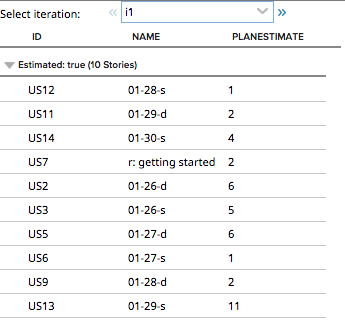
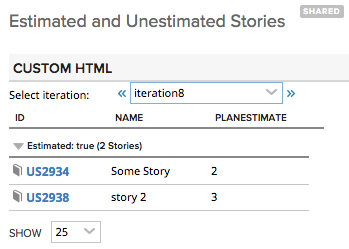
made FID clickable

Changed region(s): [[0.0, 0.0, 1.0, 0.9839]]

diff --git a/deploy/App-external.html b/deploy/App-external.html
@@ -7,7 +7,7 @@
 
     <script type="text/javascript">
         Rally.onReady(function () {
-                Ext.define("CustomApp",{extend:"Rally.app.TimeboxScopedApp",componentCls:"app",scopeType:"iteration",comboboxConfig:{fieldLabel:"Select iteration:",labelWidth:100,width:300},onScopeChange:function(){Ext.create("Rally.data.wsapi.Store",{model:"User Story",fetch:["FormattedID","Name","PlanEstimate"],limit:1/0,autoLoad:!0,filters:[this.getContext().getTimeboxScope().getQueryFilter()],sorters:[{property:"DragAndDropRank",direction:"DESC"}],listeners:{load:this._onStoriesLoaded,scope:this}})},_onStoriesLoaded:function(store,records){var myData=[];console.log(records.length);var estimated=!1;_.each(records,function(record){estimated=record.get("PlanEstimate")?!0:!1,console.log(estimated);var obj={isEstimated:estimated,Name:record.get("Name"),FormattedID:record.get("FormattedID"),PlanEstimate:record.get("PlanEstimate")};myData.push(obj)},this),this._makeGrid(myData)},_makeGrid:function(myData){this.down("#storyGrid")&&this.down("#storyGrid").destroy();var gridStore=Ext.create("Rally.data.custom.Store",{data:myData,limit:1/0,groupField:"isEstimated"});this.add({xtype:"rallygrid",itemId:"storyGrid",store:gridStore,features:[{ftype:"grouping",groupHeaderTpl:'Estimated: {name} ({rows.length} {[values.rows.length > 1 ? "Stories" : "Story"]})'}],columnCfgs:[{text:"ID",dataIndex:"FormattedID"},{text:"Name",dataIndex:"Name"},{text:"PlanEstimate",dataIndex:"PlanEstimate"}]})}});
+                Ext.define("CustomApp",{extend:"Rally.app.TimeboxScopedApp",componentCls:"app",scopeType:"iteration",comboboxConfig:{fieldLabel:"Select iteration:",labelWidth:100,width:300},onScopeChange:function(){Ext.create("Rally.data.wsapi.Store",{model:"User Story",fetch:["FormattedID","Name","PlanEstimate"],limit:1/0,autoLoad:!0,filters:[this.getContext().getTimeboxScope().getQueryFilter()],sorters:[{property:"DragAndDropRank",direction:"DESC"}],listeners:{load:this._onStoriesLoaded,scope:this}})},_onStoriesLoaded:function(store,records){var myData=[];console.log(records.length);var estimated=!1;_.each(records,function(record){estimated=record.get("PlanEstimate")?!0:!1,console.log(estimated);var obj=Ext.apply(record.getData(),{isEstimated:estimated});myData.push(obj)},this),this._makeGrid(myData)},_makeGrid:function(myData){this.down("#storyGrid")&&this.down("#storyGrid").destroy();var gridStore=Ext.create("Rally.data.custom.Store",{data:myData,limit:1/0,groupField:"isEstimated"});this.add({xtype:"rallygrid",itemId:"storyGrid",store:gridStore,showRowActionsColumn:!1,width:400,features:[{ftype:"grouping",groupHeaderTpl:'Estimated: {name} ({rows.length} {[values.rows.length > 1 ? "Stories" : "Story"]})'}],columnCfgs:[{xtype:"templatecolumn",text:"ID",dataIndex:"FormattedID",tpl:Ext.create("Rally.ui.renderer.template.FormattedIDTemplate")},{text:"Name",dataIndex:"Name"},{text:"PlanEstimate",dataIndex:"PlanEstimate"}]})}});
 
             Rally.launchApp('CustomApp', {
                 name:"Story Count",

diff --git a/deploy/App.html b/deploy/App.html
@@ -7,7 +7,7 @@
 
     <script type="text/javascript">
         Rally.onReady(function () {
-                Ext.define("CustomApp",{extend:"Rally.app.TimeboxScopedApp",componentCls:"app",scopeType:"iteration",comboboxConfig:{fieldLabel:"Select iteration:",labelWidth:100,width:300},onScopeChange:function(){Ext.create("Rally.data.wsapi.Store",{model:"User Story",fetch:["FormattedID","Name","PlanEstimate"],limit:1/0,autoLoad:!0,filters:[this.getContext().getTimeboxScope().getQueryFilter()],sorters:[{property:"DragAndDropRank",direction:"DESC"}],listeners:{load:this._onStoriesLoaded,scope:this}})},_onStoriesLoaded:function(store,records){var myData=[];console.log(records.length);var estimated=!1;_.each(records,function(record){estimated=record.get("PlanEstimate")?!0:!1,console.log(estimated);var obj={isEstimated:estimated,Name:record.get("Name"),FormattedID:record.get("FormattedID"),PlanEstimate:record.get("PlanEstimate")};myData.push(obj)},this),this._makeGrid(myData)},_makeGrid:function(myData){this.down("#storyGrid")&&this.down("#storyGrid").destroy();var gridStore=Ext.create("Rally.data.custom.Store",{data:myData,limit:1/0,groupField:"isEstimated"});this.add({xtype:"rallygrid",itemId:"storyGrid",store:gridStore,features:[{ftype:"grouping",groupHeaderTpl:'Estimated: {name} ({rows.length} {[values.rows.length > 1 ? "Stories" : "Story"]})'}],columnCfgs:[{text:"ID",dataIndex:"FormattedID"},{text:"Name",dataIndex:"Name"},{text:"PlanEstimate",dataIndex:"PlanEstimate"}]})}});
+                Ext.define("CustomApp",{extend:"Rally.app.TimeboxScopedApp",componentCls:"app",scopeType:"iteration",comboboxConfig:{fieldLabel:"Select iteration:",labelWidth:100,width:300},onScopeChange:function(){Ext.create("Rally.data.wsapi.Store",{model:"User Story",fetch:["FormattedID","Name","PlanEstimate"],limit:1/0,autoLoad:!0,filters:[this.getContext().getTimeboxScope().getQueryFilter()],sorters:[{property:"DragAndDropRank",direction:"DESC"}],listeners:{load:this._onStoriesLoaded,scope:this}})},_onStoriesLoaded:function(store,records){var myData=[];console.log(records.length);var estimated=!1;_.each(records,function(record){estimated=record.get("PlanEstimate")?!0:!1,console.log(estimated);var obj=Ext.apply(record.getData(),{isEstimated:estimated});myData.push(obj)},this),this._makeGrid(myData)},_makeGrid:function(myData){this.down("#storyGrid")&&this.down("#storyGrid").destroy();var gridStore=Ext.create("Rally.data.custom.Store",{data:myData,limit:1/0,groupField:"isEstimated"});this.add({xtype:"rallygrid",itemId:"storyGrid",store:gridStore,showRowActionsColumn:!1,width:400,features:[{ftype:"grouping",groupHeaderTpl:'Estimated: {name} ({rows.length} {[values.rows.length > 1 ? "Stories" : "Story"]})'}],columnCfgs:[{xtype:"templatecolumn",text:"ID",dataIndex:"FormattedID",tpl:Ext.create("Rally.ui.renderer.template.FormattedIDTemplate")},{text:"Name",dataIndex:"Name"},{text:"PlanEstimate",dataIndex:"PlanEstimate"}]})}});
 
             Rally.launchApp('CustomApp', {
                 name:"Story Count",

diff --git a/App.js b/App.js
@@ -24,11 +24,11 @@ Ext.define('CustomApp', {
 		load: this._onStoriesLoaded,
 		scope: this
 	    }
-	    });
+	});
     },
     _onStoriesLoaded: function(store,records){
         var myData = [];
-        //in case we want to track them separately
+        //in case we want to track them separately:
         //var estimatedStories = []; 
         //var unestimatedStories = [];
 	console.log(records.length);
@@ -40,14 +40,11 @@ Ext.define('CustomApp', {
             //else{
             //    unestimatedStories.push(record);
             //}
-            estimated = record.get('PlanEstimate') ? true : false
+            estimated = record.get('PlanEstimate') ? true : false;
             console.log(estimated);
-            var obj = {
-                isEstimated: estimated,
-                Name: record.get('Name'),
-                FormattedID: record.get('FormattedID'),
-                PlanEstimate: record.get('PlanEstimate')
-            };
+            var obj = Ext.apply(record.getData(),{
+                isEstimated: estimated
+            });
             myData.push(obj);
         },this);
         //console.log(estimatedStories.length, unestimatedStories.length);
@@ -66,15 +63,20 @@ Ext.define('CustomApp', {
             xtype: 'rallygrid',
             itemId: 'storyGrid',
             store: gridStore,
+            showRowActionsColumn: false,
+            width: 400,
             features: [
-                       {
-                        ftype:'grouping',
-                        groupHeaderTpl: 'Estimated: {name} ({rows.length} {[values.rows.length > 1 ? "Stories" : "Story"]})'
-                       }
-                       ],
+                {
+                    ftype:'grouping',
+                    groupHeaderTpl: 'Estimated: {name} ({rows.length} {[values.rows.length > 1 ? "Stories" : "Story"]})'
+                }
+            ],
             columnCfgs:[
                 {
-                    text: 'ID', dataIndex: 'FormattedID'
+                    xtype: 'templatecolumn',
+                    text: 'ID',
+                    dataIndex: 'FormattedID',
+                    tpl: Ext.create('Rally.ui.renderer.template.FormattedIDTemplate')
                 },
                 {
                   text: 'Name', dataIndex: 'Name'

diff --git a/deploy/App-uncompressed.html b/deploy/App-uncompressed.html
@@ -33,11 +33,11 @@
 		load: this._onStoriesLoaded,
 		scope: this
 	    }
-	    });
+	});
     },
     _onStoriesLoaded: function(store,records){
         var myData = [];
-        //in case we want to track them separately
+        //in case we want to track them separately:
         //var estimatedStories = []; 
         //var unestimatedStories = [];
 	console.log(records.length);
@@ -49,14 +49,11 @@
             //else{
             //    unestimatedStories.push(record);
             //}
-            estimated = record.get('PlanEstimate') ? true : false
+            estimated = record.get('PlanEstimate') ? true : false;
             console.log(estimated);
-            var obj = {
-                isEstimated: estimated,
-                Name: record.get('Name'),
-                FormattedID: record.get('FormattedID'),
-                PlanEstimate: record.get('PlanEstimate')
-            };
+            var obj = Ext.apply(record.getData(),{
+                isEstimated: estimated
+            });
             myData.push(obj);
         },this);
         //console.log(estimatedStories.length, unestimatedStories.length);
@@ -75,15 +72,20 @@
             xtype: 'rallygrid',
             itemId: 'storyGrid',
             store: gridStore,
+            showRowActionsColumn: false,
+            width: 400,
             features: [
-                       {
-                        ftype:'grouping',
-                        groupHeaderTpl: 'Estimated: {name} ({rows.length} {[values.rows.length > 1 ? "Stories" : "Story"]})'
-                       }
-                       ],
+                {
+                    ftype:'grouping',
+                    groupHeaderTpl: 'Estimated: {name} ({rows.length} {[values.rows.length > 1 ? "Stories" : "Story"]})'
+                }
+            ],
             columnCfgs:[
                 {
-                    text: 'ID', dataIndex: 'FormattedID'
+                    xtype: 'templatecolumn',
+                    text: 'ID',
+                    dataIndex: 'FormattedID',
+                    tpl: Ext.create('Rally.ui.renderer.template.FormattedIDTemplate')
                 },
                 {
                   text: 'Name', dataIndex: 'Name'
